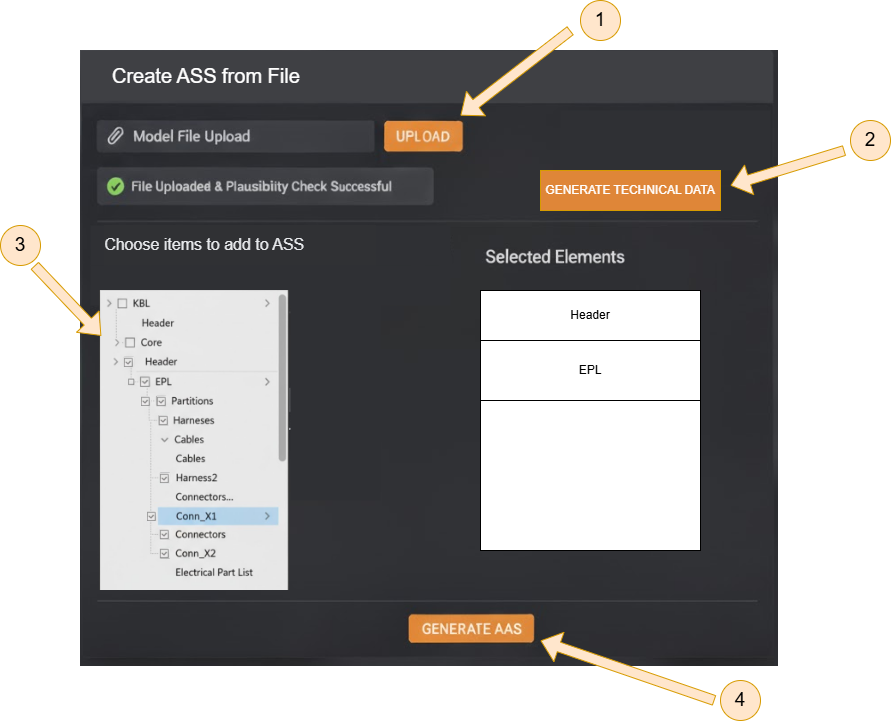
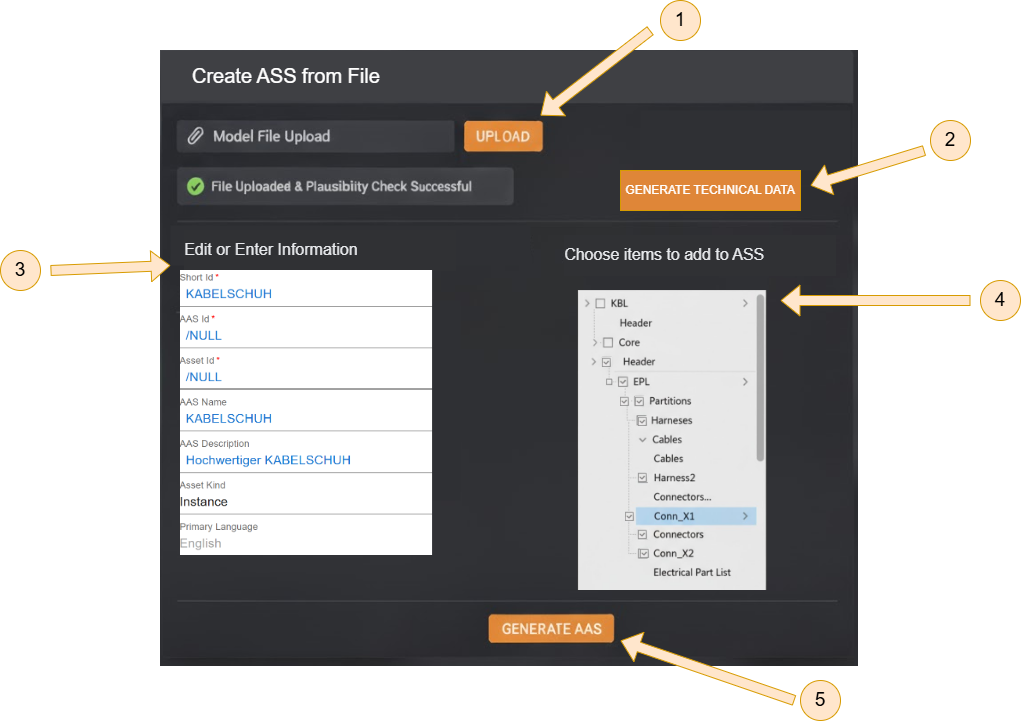
Wireframes in Punkt 2.2 leicht verändert

diff --git a/PROJECT/wireframes.md b/PROJECT/wireframes.md
@@ -7,7 +7,7 @@
 |-----|-----------|------------|---------------------|
 |1.0|27.10.2025|Felix Bandl|first version|
 |1.1|01.11.2025|Felix Bandl|adjusted after consultation with Mr. Rentschler|
-|1.2|Datum|Name|Kommentar2|
+|1.2|03.11.2025|Felix Bandl|minor change in point 2.2|
 |1.3|Datum|Name|Kommentar3|
 |1.4|Datum|Name|Kommentar4|
 
@@ -32,8 +32,9 @@
 ### 2.2 Generate ASS file
 1. Upload a KBL/VEC file with the button `UPLOAD`
 2. Click on `GENERATE TECHNICAL DATA` after the green checkmark is displayed (=validity check successfully completed).
-3. Choose the elements you want to have in the ASS.
-4. Generate an ASS using the button `GENERATE ASS`. A new AAS is then generated, in which all user-selected supported data from the model file are mapped as sub-model elements. The created AAS is stored on the VWS server.
+3. The information entered in the document is automatically filled into the fields. The user can change the information or add missing details.
+4. Choose the elements you want to have in the ASS.
+5. Generate an ASS using the button `GENERATE ASS`. A new AAS is then generated, in which all user-selected supported data from the model file are mapped as sub-model elements. The created AAS is stored on the VWS server.
 
 ![Generate ASS file](images/wireframes/GenerateASSFile.png)
  
